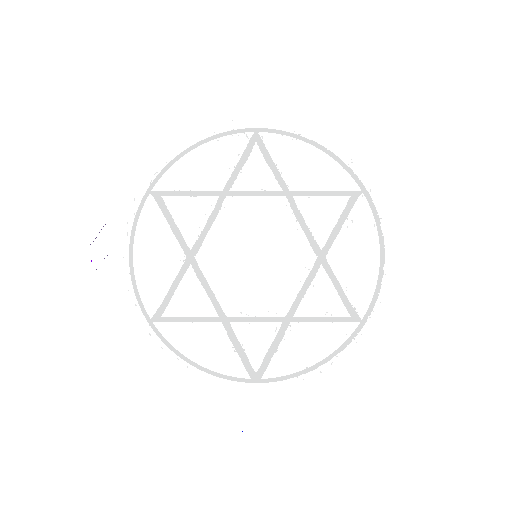
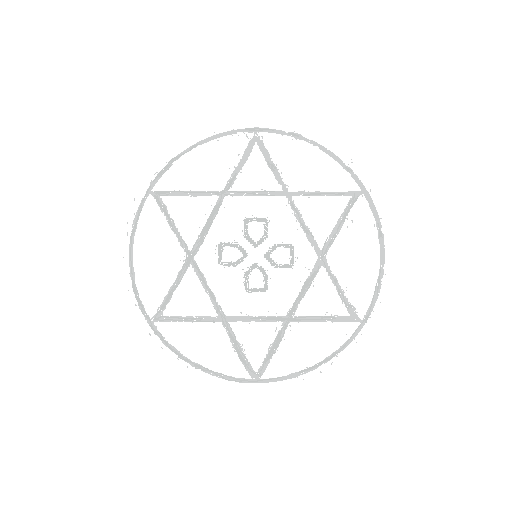
konamicode light update

diff --git a/McDungeon/Assets/Scripts/PlayerScripts/CarpetKonamiCode.cs b/McDungeon/Assets/Scripts/PlayerScripts/CarpetKonamiCode.cs
@@ -21,6 +21,8 @@ namespace McDungeon
         private float steps_interval = 0.5f;
         private float timer = 0.5f;
         private Light2D carpetLight;
+        private Light2D[] elementLight;
+        private float[] elementLightIntensity = new float[] { 1.5f, 3f, 3f, 3f };
 
         void Awake()
         {
@@ -30,6 +32,7 @@ namespace McDungeon
             codeParts = new GameObject[6];
             elementParts = new GameObject[4];
             elementParts_compeleted = new GameObject[4];
+            elementLight = new Light2D[4];
 
             for (int i = 0; i < 6; i++)
             {
@@ -39,11 +42,8 @@ namespace McDungeon
             for (int i = 0; i < 4; i++)
             {
                 elementParts[i] = this.transform.GetChild(i + 6).gameObject;
-            }
-
-            for (int i = 0; i < 4; i++)
-            {
                 elementParts_compeleted[i] = this.transform.GetChild(i + 10).gameObject;
+                elementLight[i] = elementParts_compeleted[i].GetComponent<Light2D>();
             }
 
             carpet_compeleted = this.transform.GetChild(14).gameObject;
@@ -59,6 +59,7 @@ namespace McDungeon
                 {
                     active = true;
                     progress = 0;
+                    carpetLight.enabled = true;
                     Debug.Log("Konami Code activated");
                 }
             }
@@ -125,7 +126,7 @@ namespace McDungeon
 
         private void showInput(char input)
         {
-            for (int i =0; i <4; i++)
+            for (int i = 0; i < 4; i++)
             {
                 elementParts[i].SetActive(false);
             }
@@ -146,18 +147,22 @@ namespace McDungeon
                     break;
 
             }
-            
+
         }
 
         private void falseInput()
         {
-            while (progress > 0)
+            int count = 5;
+            while (count >= 0)
             {
-                progress--;
-                codeParts[progress].SetActive(false);
+                codeParts[count].SetActive(false);
+                count--;
             }
+
+            progress = 0;
             showInput('$');
             active = false;
+            carpetLight.enabled = false;
             Debug.Log("Konami Code failed");
         }
 
@@ -170,7 +175,7 @@ namespace McDungeon
                     elementParts[progress].SetActive(true);
                     break;
                 case 1:
-                    elementParts[progress-1].SetActive(false);
+                    elementParts[progress - 1].SetActive(false);
                     elementParts[progress].SetActive(true);
                     break;
                 case 2:
@@ -223,6 +228,17 @@ namespace McDungeon
             animationFinished = true;
         }
 
+        public void ChangeLight(float ratio)
+        {
+            for (int i = 0; i < 4; i++)
+            {
+                elementLight[i].intensity = elementLightIntensity[i] * ratio;
+            }
+            carpetLight.intensity = 0.2f * ratio;
+            Debug.Log("Code light ratio: " + ratio);
+
+        }
+
         void OnTriggerEnter2D(Collider2D other)
         {
 
@@ -231,8 +247,11 @@ namespace McDungeon
                 Debug.Log("Player Enter");
                 entered = true;
                 active = false;
-                progress = 0;
-                carpetLight.enabled = true;
+                
+                if (!compeleted)
+                {
+                    progress = 0;
+                }
             }
         }
 
@@ -244,11 +263,11 @@ namespace McDungeon
                 Debug.Log("Player Exit");
                 entered = false;
                 active = false;
-                progress = 0;
 
                 if (!compeleted)
                 {
-                    carpetLight.enabled = false;
+                    falseInput();
+                    progress = 0;
                 }
             }
         }

diff --git a/McDungeon/Assets/Scripts/PlayerScripts/PlayerController.cs b/McDungeon/Assets/Scripts/PlayerScripts/PlayerController.cs
@@ -23,6 +23,7 @@ namespace McDungeon
         [SerializeField] private float speed;
         [SerializeField] private CapsuleCollider2D bodyCollider;
         [SerializeField] private StartRoomLightController roomLightControl;
+        [SerializeField] private CarpetKonamiController carpetLightControl;
         [SerializeField] protected int playerMaxHealth;
         [SerializeField] protected float playerHealth;
         private PlayerHealthController healthController;
@@ -127,6 +128,7 @@ namespace McDungeon
             globalLight = GameObject.Find("Global Light 2D").GetComponent<Light2D>();
             torchLight = this.transform.GetChild(0).gameObject.GetComponent<Light2D>();
             roomLightControl = GameObject.Find("StartingRoom").GetComponent<StartRoomLightController>();
+            carpetLightControl = GameObject.Find("Carpet").GetComponent<CarpetKonamiController>();
 
             playerMaxHealth = 10;
             playerHealth = 10f;
@@ -497,6 +499,7 @@ namespace McDungeon
                     torchLight.intensity = 0f;
                     roomLightIntensity = 0f;
                     roomLightControl.UpdateLight(roomLightIntensity);
+                    carpetLightControl.ChangeLight(roomLightIntensity);
                 }
                 else
                 {
@@ -507,6 +510,7 @@ namespace McDungeon
                     torchLight.intensity = torchLight.intensity - speed * speedModifier * Time.deltaTime * 0.5f;
                     roomLightIntensity = roomLightIntensity - speed * speedModifier * Time.deltaTime * 1f;
                     roomLightControl.UpdateLight(roomLightIntensity);
+                    carpetLightControl.ChangeLight(roomLightIntensity);
                 }
             }
             else
@@ -525,6 +529,7 @@ namespace McDungeon
                     torchLight.intensity = 0.5f;
                     roomLightIntensity = 1f;
                     roomLightControl.UpdateLight(roomLightIntensity);
+                    carpetLightControl.ChangeLight(roomLightIntensity);
                 }
                 else
                 {
@@ -535,6 +540,7 @@ namespace McDungeon
                     torchLight.intensity = torchLight.intensity + speed * speedModifier * Time.deltaTime * 0.5f / 2.5f;
                     roomLightIntensity = roomLightIntensity + speed * speedModifier * Time.deltaTime * 1f / 2.5f;
                     roomLightControl.UpdateLight(roomLightIntensity);
+                    carpetLightControl.ChangeLight(roomLightIntensity);
 
                     if (globalLight.intensity > lightIntensity)
                     {
